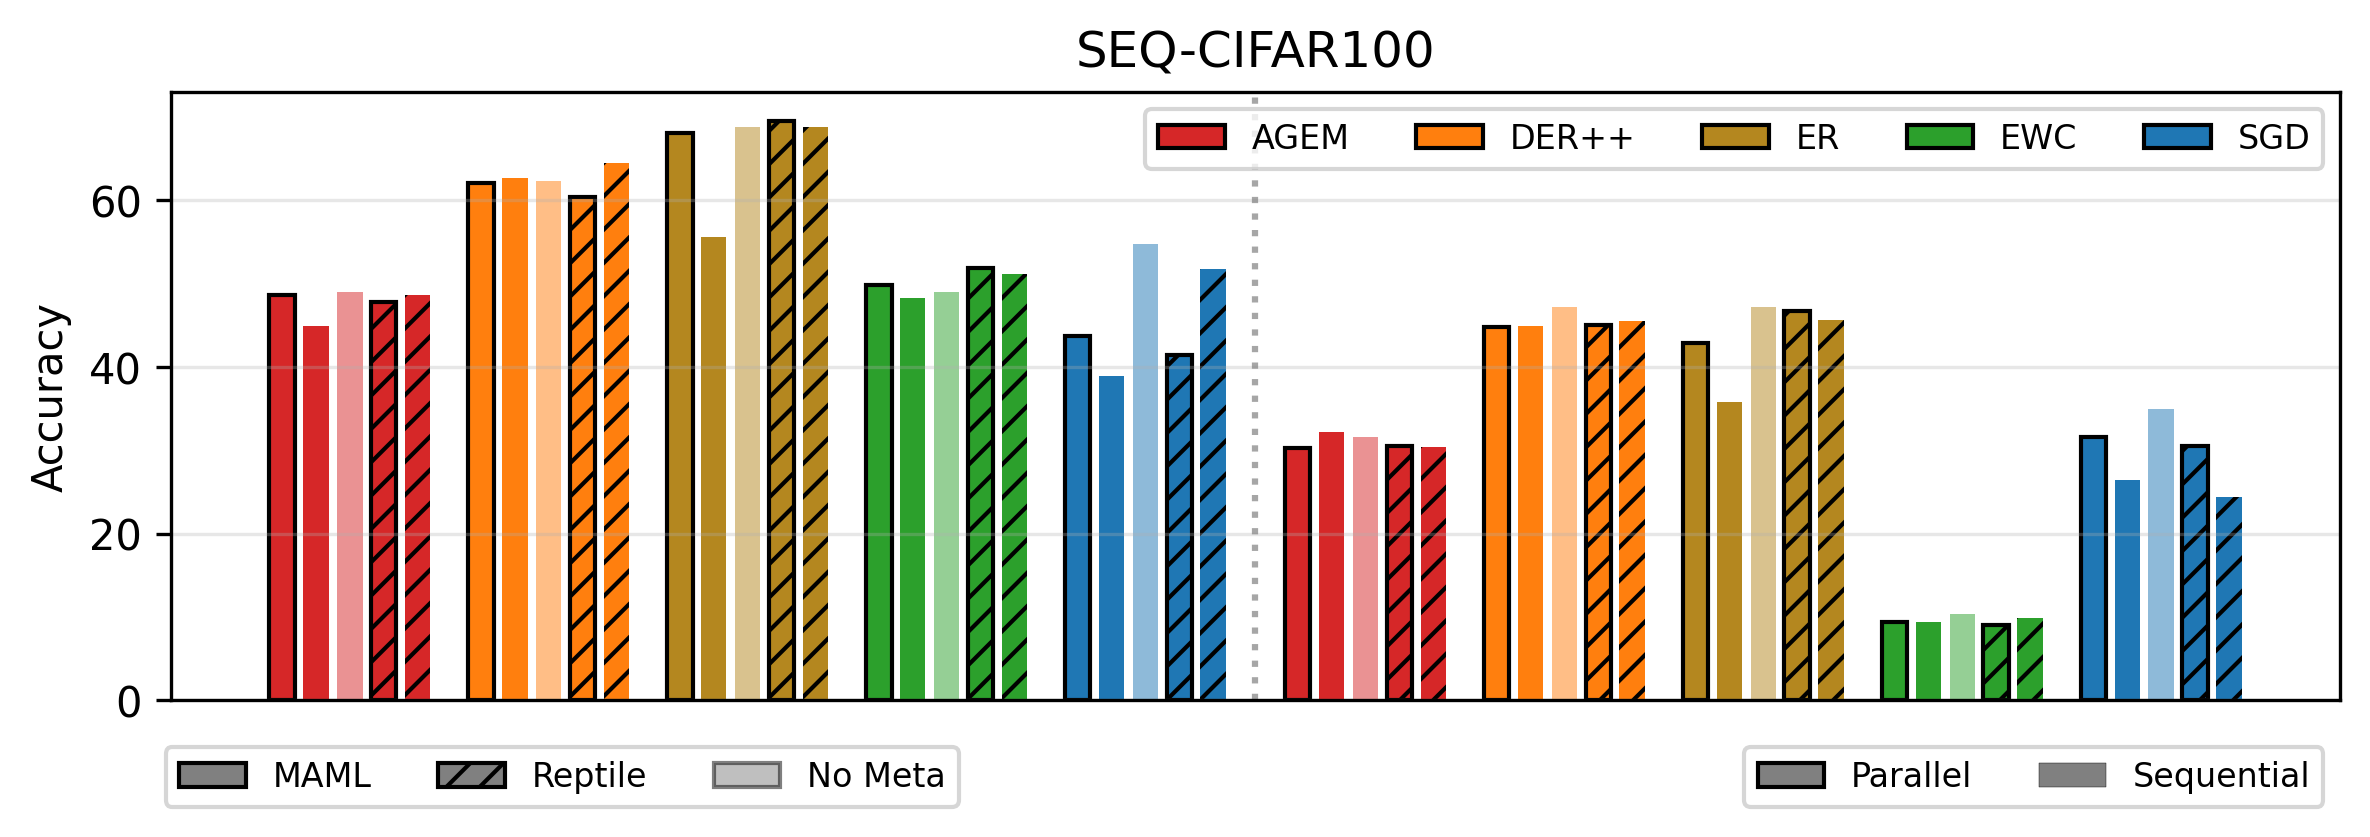
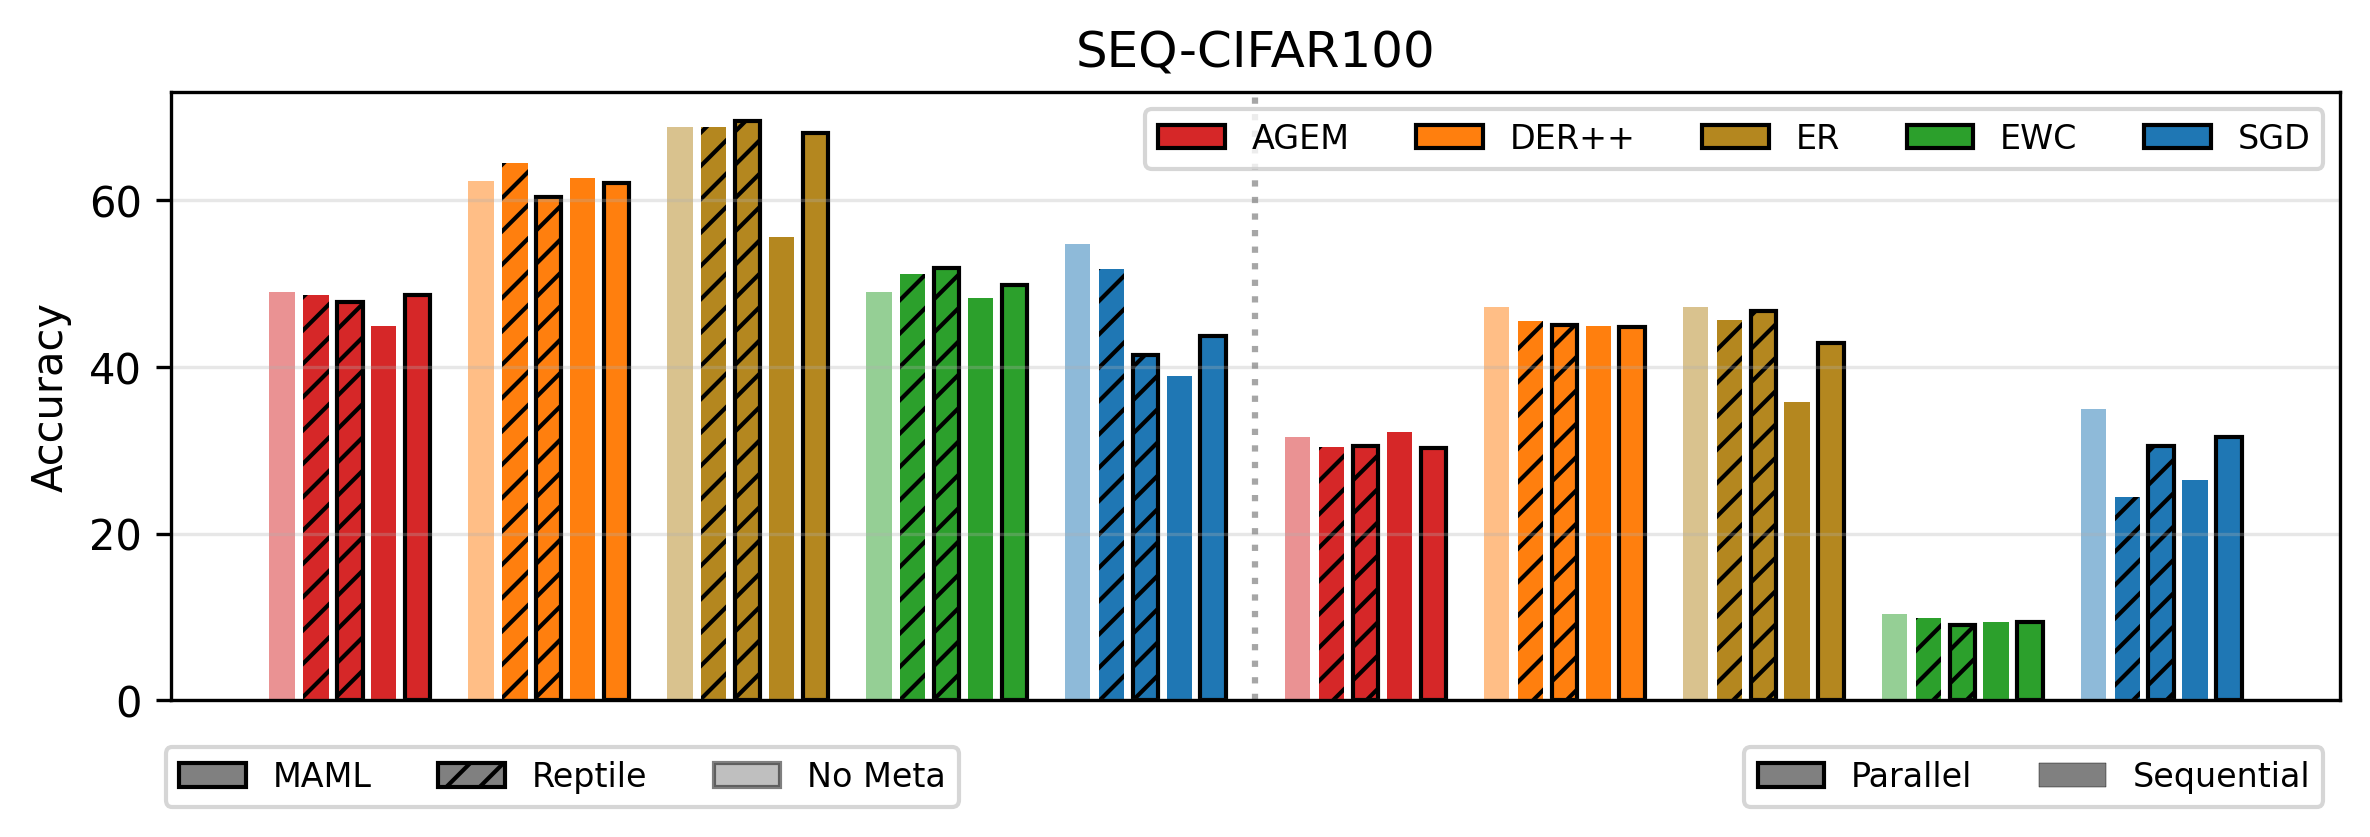
sort meta methods plot

Changed region(s): [[0.0937, 0.1243, 0.9679, 0.8387]]

diff --git a/results_for_paper.py b/results_for_paper.py
@@ -1748,6 +1748,33 @@ def all_results_table(
     print(f"Saved results table to {output_path}")
 
 
+def sort_meta_methods(method: str) -> tuple:
+    """Sort key for meta methods: (meta_type_order, strategy_order, method_name).
+    
+    Meta method order: no_meta (0), reptile (1), maml (2)
+    Strategy order: sequential (0), parallel (1)
+    """
+    # Extract meta method type
+    if 'no_meta' in method or 'no-meta' in method:
+        meta_type_order = 0
+    elif 'reptile' in method:
+        meta_type_order = 1
+    elif 'maml' in method:
+        meta_type_order = 2
+    else:
+        meta_type_order = 3  # Unknown types go last
+    
+    # Extract strategy
+    if 'sequential' in method:
+        strategy_order = 0
+    elif 'parallel' in method:
+        strategy_order = 1
+    else:
+        strategy_order = 2  # Unknown strategies go last
+    
+    return (meta_type_order, strategy_order, method)
+
+
 def compare_meta_methods(
     dataset: str,
     k_values: List[int] = None,
@@ -1937,7 +1964,7 @@ def compare_meta_methods(
             base_to_methods.setdefault(base, []).append(method)
     bases = sorted(base_to_methods.keys())
     for base in bases:
-        base_to_methods[base].sort()
+        base_to_methods[base].sort(key=sort_meta_methods)
 
     for idx, k_val in enumerate(k_values_for_plot):
         ax = axes2[0, idx]
